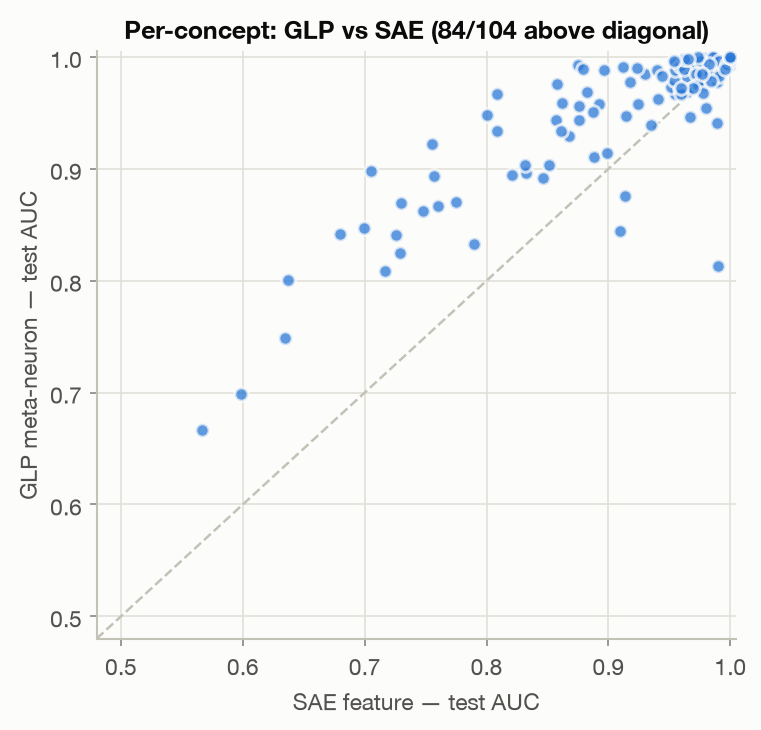
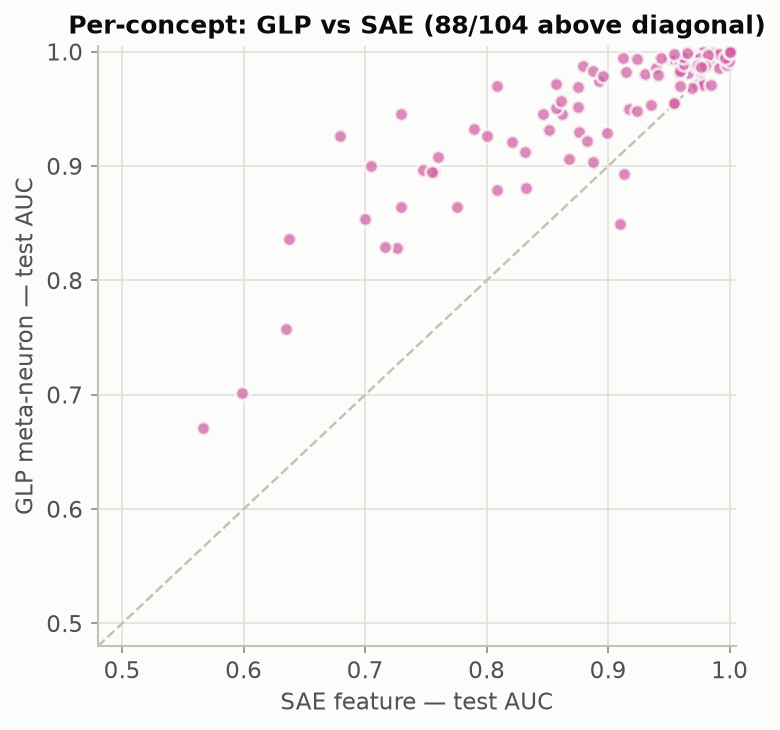
Rewrite paper draft on 100M MN5 run; discovery framing; anonymize
Replaces all pilot/local-run data with the completed 100M-activation
UniRef50 run on ESM-2-8M (MareNostrum 5):
- Probing AUC: GLP 0.953 vs FFN 0.916, SAE 0.900, raw 0.861; paired
  bootstrap and per-category table updated to the 100M numbers.
- Generation quality presented honestly: loss 0.90 below the 2.0 floor,
  PCA overlap (std ratio 0.93, mean gap 0.04), FD 3.63@1000 steps with
  the sampler sweep. Dropped the now-false "beats Llama 2.28x" claim.
- Both GLP and the SAE now train on UniRef50, so the old distribution-
  mismatch caveat is gone.

Reframes the abstract and motivation toward discovery: the generative
model as a broader substrate for finding concept-carrying units a sparse
dictionary can't span, and as an on-manifold prior for steering proteins
toward new functions.

F1 moved to future work (no F1 computed at 100M yet). Author block
anonymized (neurips_2024 without [final]). Adds two figure blocks (six
plots) from the 100M run: probing_auc/probing_per_concept/generation_pca
and training_loss/fd_vs_steps/generation_fd.

diff --git a/docs/paper_draft.tex b/docs/paper_draft.tex
@@ -8,16 +8,21 @@
 %  not bundled here. On Overleaf: upload neurips_2024.sty next to this file
 %  (https://neurips.cc/Conferences/2024/PaperInformation/StyleFiles).
 %
-%  If you just want it to compile immediately without that file, comment out the
-%  \usepackage[final]{neurips_2024} line and uncomment the geometry fallback
-%  marked FALLBACK below — layout differs slightly but everything else works.
+%  Submission (anonymous) mode: `\usepackage{neurips_2024}` WITHOUT [final] prints
+%  "Anonymous Author(s)" and ignores the author block below. For a camera-ready,
+%  non-anonymous version, add [final] and fill in the author block.
 %
-%  Figures live in docs/figures/ (committed). Compile from docs/.
+%  If you just want it to compile immediately without that file, comment out the
+%  \usepackage{neurips_2024} line and uncomment the geometry fallback marked
+%  FALLBACK below — layout differs slightly but everything else works.
+%
+%  Figures live in docs/figures/ (committed, from the 100M MareNostrum-5 run).
+%  Compile from docs/.
 % ============================================================================
 
 \documentclass{article}
 
-\usepackage[final]{neurips_2024}
+\usepackage{neurips_2024}          % anonymous submission mode (no [final])
 % FALLBACK (use only if neurips_2024.sty is unavailable):
 % \usepackage[margin=1in]{geometry}
 
@@ -33,10 +38,13 @@
 \title{Generative Latent Priors for Protein Language Models:\\
        Do Diffusion Meta-Neurons Isolate Biological Concepts?}
 
+% Anonymous for submission — the neurips_2024 style (no [final]) replaces this
+% block with "Anonymous Author(s)".
 \author{%
-  Lucia Urcelay \\
-  Centre for Genomic Regulation (CRG) \\
-  \texttt{lucia.urcelay@crg.eu} \\
+  Anonymous Author(s) \\
+  Affiliation \\
+  Address \\
+  \texttt{email} \\
 }
 
 \begin{document}
@@ -44,16 +52,22 @@
 
 \begin{abstract}
 Sparse autoencoders (SAEs) are the dominant tool for interpreting protein language
-models, but they assume activations decompose as a \emph{sparse linear} sum of
-dictionary atoms. We ask whether that assumption is necessary. We port the
-Generative Latent Prior (GLP) --- a diffusion model \emph{of neural activations} ---
-from LLMs to ESM-2, and probe whether its internal units isolate biological concepts.
-On 104 pre-registered Swiss-Prot concepts, GLP meta-neurons attain a mean test AUC of
-$0.945$ versus $0.900$ for InterPLM's released SAE, $0.916$ for ESM's own FFN neurons,
-and $0.861$ for the raw residual stream --- every paired comparison significant. On
-InterPLM's domain-adjusted F1 the SAE remains more \emph{precise}. The two metrics
-disagree in an informative way: sparse features fire rarely but correctly, dense
-generative features rank better. All results are from a single 16\,GB laptop.
+models, and increasingly a substrate for \emph{discovery} --- reading out, and
+steering, biological concepts. But they bake in a strong assumption: that activations
+decompose as a \emph{sparse, non-negative, linear} sum of dictionary atoms, which
+bounds what can be found to what the dictionary already spans. We ask whether a
+\emph{generative} model of activations, unconstrained by sparsity or linearity, is a
+richer discovery substrate. We port the Generative Latent Prior (GLP) --- a diffusion
+model \emph{of neural activations} --- from LLMs to ESM-2, and study its internal units
+(``meta-neurons''). On 104 pre-registered Swiss-Prot concepts, \emph{single} GLP
+meta-neurons isolate biological concepts better than every baseline: mean test AUC
+$0.953$ versus $0.900$ for InterPLM's released SAE, $0.916$ for ESM's own FFN neurons,
+and $0.861$ for the raw residual stream --- every paired comparison significant --- with
+the largest margins exactly where the SAE is weakest (structural and binding/catalytic
+concepts). Because GLP is generative, the same model doubles as an on-manifold prior for
+\emph{steering} activations toward new functions, which a purpose-built dictionary cannot
+supply. Results are from a 100M-activation run on ESM-2-8M; a larger run and
+concept-steering are in progress.
 \end{abstract}
 
 \section{Motivation}
@@ -61,20 +75,27 @@ generative features rank better. All results are from a single 16\,GB laptop.
 Interpretability for protein language models is currently synonymous with sparse
 dictionary learning. InterPLM \cite{simon2024interplm} trains SAEs on ESM-2
 \cite{lin2023esm2} activations and recovers features aligned with Swiss-Prot
-annotations. The method works, but it \emph{builds in} the hypothesis it is testing:
-features are assumed to be sparse, non-negative, and linearly composable.
+annotations. The method works, and it is increasingly used not just to \emph{read}
+concepts but to \emph{act} on them --- clamping a feature to steer a protein. But it
+\emph{builds in} the hypothesis it is testing: features are assumed sparse,
+non-negative, and linearly composable. Whatever biology does not fit a sparse-linear
+dictionary is, by construction, invisible to it --- both to discover and to steer.
 
 The Generative Latent Prior \cite{luo2026glp} offers a different lens. GLP trains a
 diffusion model on the activations of a frozen host network, learning their
 \emph{distribution} with no linearity or sparsity constraint. Its internal units
-(``meta-neurons'') are a byproduct of that objective rather than its purpose. If those
-units track biology as well as a purpose-built dictionary, the sparse-linear
-assumption is a convenience rather than a requirement --- and the generative model
-additionally provides a \emph{prior} usable for on-manifold activation editing.
+(``meta-neurons'') are a byproduct of that objective rather than its purpose. Two things
+follow if those units track biology at least as well as a purpose-built dictionary.
+First, the generative model is a broader \emph{discovery} substrate: concept structure
+can live in dense, non-linear units a sparse dictionary would never surface. Second, the
+same model is a learned \emph{prior} over the activation manifold --- so it can steer
+activations toward new functions while keeping them on-manifold, an operation a static
+dictionary has no way to perform.
 
 We report a first port of GLP to protein LMs, with two deliverables: (i) a concept
-probing comparison (complete, below), and (ii) on-manifold concept steering (design
-complete, not yet run).
+probing comparison (complete, below), which tests the discovery claim directly, and
+(ii) on-manifold concept steering (design complete, in progress), which tests the
+prior.
 
 \section{Method}
 
@@ -86,8 +107,11 @@ invalidate the comparison.
 \textbf{GLP.} A stack of 6 SwiGLU MLP blocks (20.9M parameters, no attention,
 single-token) trained by flow matching: given a clean standardised activation $z_0$,
 noise $\epsilon$, and $t\!\sim\!U(0,1)$, form $z_t = (1{-}t)z_0 + t\epsilon$ and
-regress the velocity $\epsilon - z_0$ under MSE. \emph{Meta-neurons} are the
-$6\times1280 = 7{,}680$ per-block gated-MLP activations read at a chosen noise level.
+regress the velocity $\epsilon - z_0$ under MSE. Training uses 100M activations
+extracted from a 5M-sequence reservoir sample of UniRef50 --- the same distribution
+InterPLM's SAE was trained on --- with all evaluation proteins excluded (below).
+\emph{Meta-neurons} are the $6\times1280 = 7{,}680$ per-block gated-MLP activations read
+at a chosen noise level.
 
 \textbf{Probing.} For each concept we ask whether a \emph{single} unit isolates it ---
 not whether the representation as a whole decodes it. Per concept and method: filter
@@ -98,44 +122,47 @@ representations receive an identical candidate budget: GLP meta-neurons, SAE fea
 
 \textbf{Fairness controls.} The concept set is frozen \emph{before} any probing, using
 only Swiss-Prot frequency statistics and the SAE's own tractability --- never GLP
-output. Training proteins exclude every evaluation protein (verified zero overlap);
-an earlier run overlapped $98.4\%$, which we measured to be worth only $-0.002$ AUC
-(95\% CI $[-0.006, +0.001]$, not significant) but which we removed regardless, since
-the advantage is asymmetric (the SAE was trained on UniRef50).
+output. Training proteins exclude every evaluation protein (verified zero overlap):
+because the SAE was trained on a disjoint UniRef50 sample, any leakage would advantage
+GLP asymmetrically, so we remove it by construction.
 
 \section{Results}
 
-\textbf{The generative model is sound.} Trained on 10M activations, the diffusion loss
-falls from $2.39$ to $1.04$ (below the $\approx\!2.0$ trivial-predictor floor).
-Fr\'echet Distance between generated and real activations is $8.24$ against a
-real-vs-real lower bound of $5.32$ --- a ratio of $1.55\times$, better than GLP's own
-published Llama-8B figure ($2.28\times$). Generated activations overlap the real
-distribution in its principal subspace (Fig.~\ref{fig:main}c). We note FD is strongly
-sampler-dependent ($2.88\times$ at 20 steps, $1.55\times$ at 1000); it must always be
-quoted with its step count.
+\textbf{The generative model is sound.} The flow-matching loss converges to $0.90$,
+well below the $\approx\!2.0$ trivial-predictor floor (Fig.~\ref{fig:gen}a). Generated
+activations occupy the real distribution's principal subspace: projected onto the real
+data's top-2 PCs they overlap closely (Fig.~\ref{fig:main}c), matching its spread (std
+ratio $0.93$) and centre (mean gap $0.04$ in PC-std units), with near-identical captured
+variance ($0.157$ vs.\ $0.153$). Fr\'echet Distance between generated and real
+activations is $3.63$ at 1000 sampler steps against a real-vs-real lower bound of
+$0.96$. FD is strongly sampler-dependent --- $11.85$ at 20 steps, falling monotonically
+to $3.63$ at 1000 (Fig.~\ref{fig:gen}b) --- and must always be quoted with its step
+count.
 
 \textbf{GLP meta-neurons isolate concepts better than all baselines}
 (Table~\ref{tab:auc}, Fig.~\ref{fig:main}a). Paired bootstrap over the 104 concepts:
-GLP\,$-$\,SAE $= +0.045$ (95\% CI $[+0.034,+0.056]$, wins 84/104);
-GLP\,$-$\,FFN $= +0.029$ ($[+0.021,+0.036]$, 91/104);
-FFN\,$-$\,SAE $= +0.016$ ($[+0.005,+0.028]$, 61/104). The gains concentrate exactly
-where the SAE is weakest (Fig.~\ref{fig:main}b): $+0.10$ on structural and
-binding/catalytic concepts, $+0.01$ on chemical/PTM concepts the SAE already handles.
-Notably the SAE is \emph{not} the strongest baseline --- ESM's own FFN neurons beat
-it --- so the informative dense-vs-dense control is GLP versus FFN, which GLP also
-wins. The selected probing noise level was $u{=}0.9$ for 93/104 concepts,
+GLP\,$-$\,SAE $= +0.053$ (95\% CI $[+0.042,+0.064]$, wins 88/104);
+GLP\,$-$\,FFN $= +0.036$ ($[+0.030,+0.044]$, 92/104);
+GLP\,$-$\,raw $= +0.092$ ($[+0.081,+0.103]$, 101/104) --- all significant. The gains
+concentrate exactly where the SAE is weakest (Fig.~\ref{fig:main}b): $+0.10$ on
+structural and $+0.11$ on binding/catalytic concepts (small buckets, $n{=}4$ and
+$n{=}2$), versus $+0.015$ on the chemical/PTM concepts the SAE already handles well.
+Notably the SAE is \emph{not} the strongest baseline --- ESM's own FFN neurons beat it
+($0.916$ vs.\ $0.900$) --- so the informative dense-vs-dense control is GLP versus FFN,
+which GLP also wins. The selected probing noise level was $u{=}0.9$ for 85/104 concepts,
 independently reproducing GLP's released default.
 
 \begin{table}[t]
 \centering
-\caption{1-D probing, 104 pre-registered Swiss-Prot concepts. Mean test AUC with 95\%
-bootstrap CIs. Selection on validation, reporting on held-out test proteins.}
+\caption{1-D probing, 104 pre-registered Swiss-Prot concepts (100M-activation run,
+ESM-2-8M). Mean test AUC with 95\% bootstrap CIs. Selection on validation, reporting on
+held-out test proteins.}
 \label{tab:auc}
 \begin{tabular}{lcc}
 \toprule
 Representation & Units & Mean test AUC \\
 \midrule
-\textbf{GLP meta-neurons} & 7{,}680 & $\mathbf{0.945}$ $[0.932, 0.957]$ \\
+\textbf{GLP meta-neurons} & 7{,}680 & $\mathbf{0.953}$ $[0.941, 0.964]$ \\
 ESM FFN neurons           & 1{,}280 & $0.916$ $[0.901, 0.931]$ \\
 InterPLM SAE              & 10{,}240 & $0.900$ $[0.880, 0.919]$ \\
 Raw residual stream       & 320     & $0.861$ $[0.844, 0.878]$ \\
@@ -166,49 +193,89 @@ onto the real data's top-2 principal components.}
 \label{fig:main}
 \end{figure}
 
-\textbf{The metrics disagree, informatively.} On InterPLM's domain-adjusted F1
-(14 frozen concepts, operating points rate-matched across methods), the SAE scores
-$0.286$ and GLP $0.264$; the difference is \emph{not} significant
-($[-0.008,+0.060]$). Because rate-matching equalises recall ($0.30$--$0.34$ for all
-methods), the gap is entirely \emph{precision}: SAE $0.347$ vs.\ GLP $0.241$. This is
-mechanistically coherent --- SAE features are $99.0\%$ exactly zero, so they fire
-rarely but correctly, whereas dense meta-neurons rank every residue well but must
-threshold an always-on signal. GLP does significantly beat both raw baselines on F1
-($+0.078$ over FFN neurons, 12/14).
+\begin{figure}[t]
+\centering
+\begin{subfigure}[b]{0.32\textwidth}
+  \includegraphics[width=\textwidth]{figures/training_loss.png}
+  \caption{}
+\end{subfigure}
+\hfill
+\begin{subfigure}[b]{0.32\textwidth}
+  \includegraphics[width=\textwidth]{figures/fd_vs_steps.png}
+  \caption{}
+\end{subfigure}
+\hfill
+\begin{subfigure}[b]{0.32\textwidth}
+  \includegraphics[width=\textwidth]{figures/generation_fd.png}
+  \caption{}
+\end{subfigure}
+\caption{Generation quality (100M-activation run). (a) Flow-matching loss vs.\ training
+step, converging below the $\approx\!2.0$ trivial-predictor floor. (b) FD vs.\ sampler
+steps: FD reports sampler error at low step counts, so it must be quoted with its step
+count. (c) FD(generated, real) against the real-vs-real lower bound at 1000 steps.}
+\label{fig:gen}
+\end{figure}
+
+\textbf{Where the signal lives.} Per category (Table~\ref{tab:cat}), GLP leads every
+bucket, and the aggregate is dominated by the 86 domain/motif concepts. The honest read
+is the per-category one: the advantage is broad but largest on the structural and
+binding/catalytic concepts a sparse-linear dictionary captures least well --- the regime
+where an unconstrained generative substrate has the most room to help.
+
+\begin{table}[t]
+\centering
+\caption{Mean test AUC per Swiss-Prot category ($n$ concepts). GLP leads every bucket;
+the aggregate is dominated by domain/motif ($n{=}86$).}
+\label{tab:cat}
+\begin{tabular}{lccccc}
+\toprule
+Category & $n$ & GLP & FFN & SAE & Raw \\
+\midrule
+Domain / motif          & 86 & $\mathbf{0.962}$ & $0.928$ & $0.908$ & $0.867$ \\
+Chemical / PTM          & 9  & $\mathbf{0.969}$ & $0.943$ & $0.954$ & $0.901$ \\
+Structural              & 4  & $\mathbf{0.765}$ & $0.703$ & $0.669$ & $0.661$ \\
+Topology / localization & 3  & $\mathbf{0.957}$ & $0.875$ & $0.938$ & $0.879$ \\
+Binding / catalytic     & 2  & $\mathbf{0.829}$ & $0.794$ & $0.721$ & $0.797$ \\
+\bottomrule
+\end{tabular}
+\end{table}
 
 \section{Limitations}
 
-These are laptop-scale results and should be read as such. (i) Training used 10M
-activations for one epoch; the cluster plan calls for 50--300M. (ii) The F1 comparison
-uses 14 concepts and its key contrast is not significant; extending to all 104 is
-required before any claim about precision. (iii) 86 of 104 concepts fall in the
-domain/motif category, so the aggregate is dominated by one bucket --- the
-per-category breakdown is the honest read. (iv) GLP trains on Swiss-Prot while the SAE
-was trained on UniRef50; proteins are now disjoint but the distributions still differ.
-(v) The generation-quality gate (\%Loss-Recovered, SAE-reconstruction FD) has not yet
-been run, and no steering experiment exists yet.
+(i) A larger 500M-activation run is in progress but was interrupted by the cluster
+wall-clock limit mid-training; the results here are the completed 100M run, and the
+scaling point is not yet available. (ii) Domain-adjusted F1 --- which at pilot scale
+told a different story from AUC (the SAE fired rarely but precisely) --- has not been
+recomputed at 100M and is not claimed here. (iii) 86 of 104 concepts fall in the
+domain/motif category, so the aggregate is dominated by one bucket; the per-category
+breakdown (Table~\ref{tab:cat}) is the honest read, and the extreme-margin buckets are
+small ($n{=}2$--$4$). (iv) The generation-quality gate (\%Loss-Recovered,
+SAE-reconstruction FD) has not yet been run. (v) The steering deliverable is designed
+but not yet run, so the discovery-by-steering claim is so far only supported indirectly,
+via the probing result.
 
 \section{Next steps}
 
-\textbf{Immediate (local).} Complete the generation gate: \%Loss-Recovered and the
-SAE-reconstruction FD anchor. Extend F1 to all 104 concepts. Run the nonlinearity
-falsification test --- if a winning meta-neuron is linearly predictable from the SAE
-dictionary ($R^2$ high), the advantage is repackaging rather than new structure, and
-we would retract the stronger claim.
+\textbf{Complete the current scale.} Resume the interrupted 500M-activation run from its
+checkpoint for a scaling point, and compute domain-adjusted F1 at 100M to test whether
+the SAE's precision edge seen at pilot scale persists. Run the generation gate
+(\%Loss-Recovered, SAE-reconstruction FD). Run the nonlinearity falsification test --- if
+a winning meta-neuron is linearly predictable from the SAE dictionary ($R^2$ high), the
+advantage is repackaging rather than new structure, and we would retract the stronger
+claim.
 
-\textbf{Cluster (MareNostrum~5).} Scale to 50--300M activations with streaming and
-bf16; re-run probing at full evaluation scale. SLURM launchers are in place.
+\textbf{Steering (deliverable 2): discovery by editing.} SAE-based concept clamping
+produces off-manifold activations that degrade downstream predictions. GLP supplies a
+learned prior: noise the edited activation and denoise it back (an activation-space
+SDEdit \cite{meng2022sdedit}), then measure the concept-strength / naturalness Pareto
+frontier against naive clamping. This is where the generative substrate should pay off
+for \emph{discovery} --- steering a protein toward a new function while staying on the
+data manifold, rather than merely reading a concept out. The periodic-glycine features
+characterised by InterPLM give a cheap, reproducible testbed.
 
-\textbf{Steering (deliverable 2).} SAE-based concept clamping produces off-manifold
-activations that degrade downstream predictions. GLP supplies a learned prior: noise
-the edited activation and denoise it back (an activation-space SDEdit \cite{meng2022sdedit}), then measure
-the concept-strength/naturalness Pareto frontier against naive clamping. The
-periodic-glycine features characterised by InterPLM give a cheap, reproducible
-testbed.
-
-\textbf{If time permits.} ESM-2-650M as a scaling point, ESMFold pLDDT as a
-foldability metric for steered sequences, and a three-size scaling curve relating
-diffusion loss to probe AUC.
+\textbf{If time permits.} ESM-2-650M as a second scaling point, ESMFold pLDDT as a
+foldability metric for steered sequences, and a scaling curve relating diffusion loss to
+probe AUC.
 
 \begin{thebibliography}{9}
 \small
